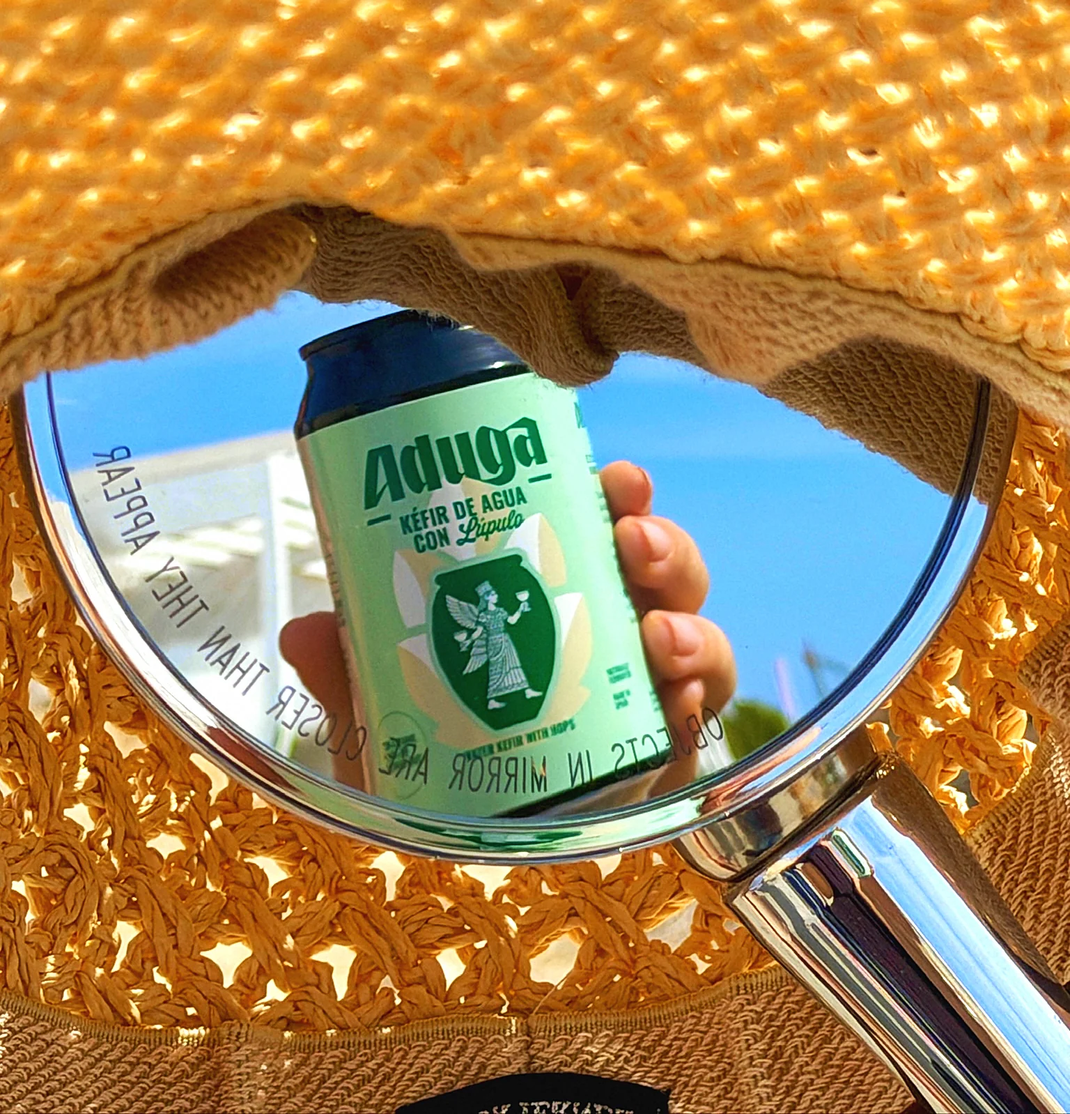
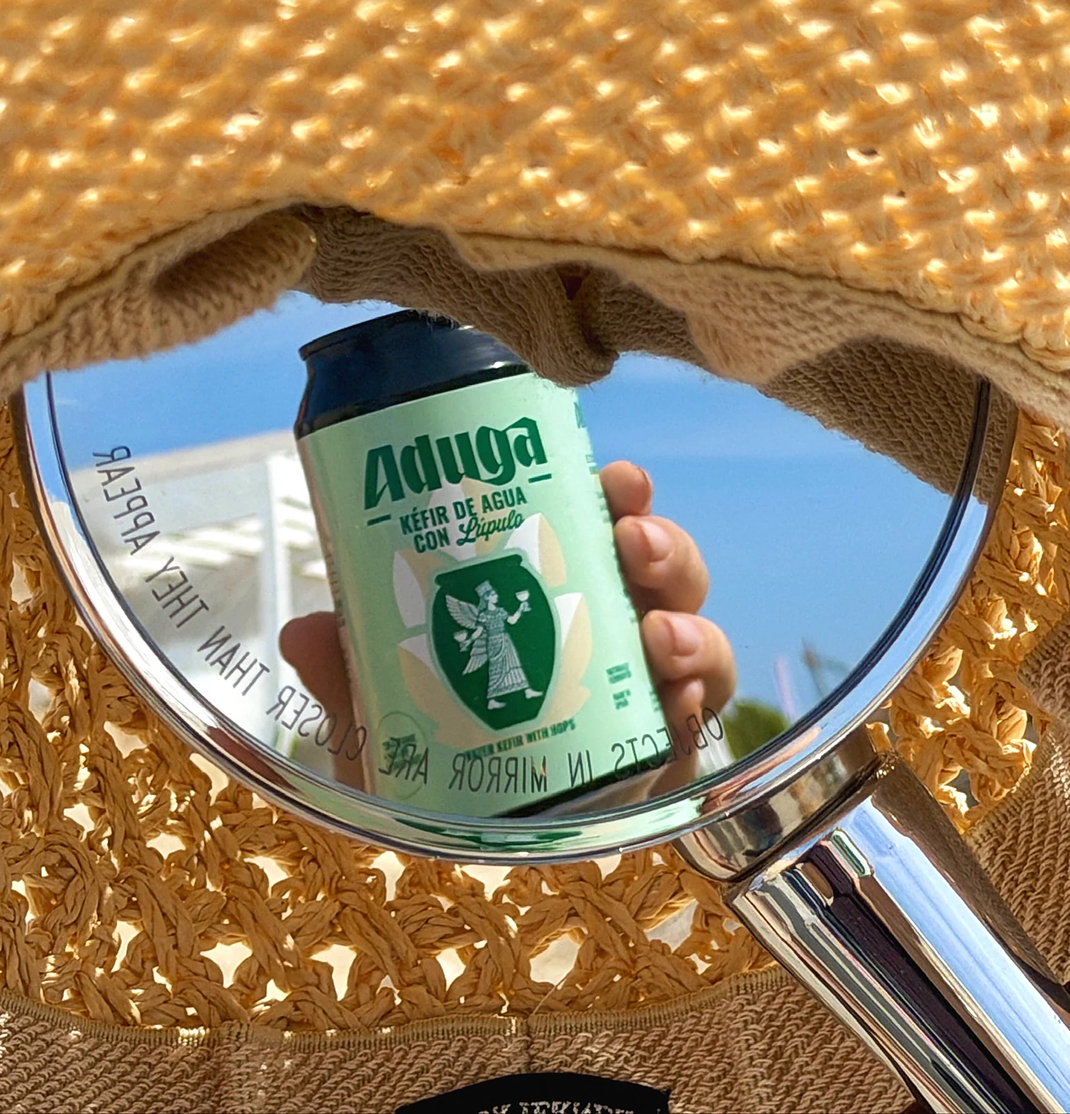
Hero: color más natural en la foto del espejo
Claude-Session: https://claude.ai/code/session_01NCXXDtuLUHPraNBVjAB9qo

diff --git a/index.html b/index.html
@@ -15,13 +15,13 @@
   <meta property="og:description" content="Kéfir de agua artesanal, naturalmente fermentado, con cultivos vivos y un sabor ligero, cítrico y refrescante.">
   <link rel="canonical" href="https://aduga.co/">
   <meta property="og:url" content="https://aduga.co/">
-  <meta property="og:image" content="https://aduga.co/assets/img/og.jpg?v=2">
+  <meta property="og:image" content="https://aduga.co/assets/img/og.jpg?v=3">
   <meta property="og:image:width" content="1200">
   <meta property="og:image:height" content="630">
   <meta name="twitter:card" content="summary_large_image">
 
   <link rel="icon" href="assets/icons/favicon.svg" type="image/svg+xml">
-  <link rel="preload" as="image" href="assets/img/hero-espejo-1536.webp" imagesrcset="assets/img/hero-espejo-900.webp 900w, assets/img/hero-espejo-1536.webp 1536w" imagesizes="(min-width: 900px) 48vw, 100vw">
+  <link rel="preload" as="image" href="assets/img/hero-espejo-1536.webp?v=2" imagesrcset="assets/img/hero-espejo-900.webp?v=2 900w, assets/img/hero-espejo-1536.webp?v=2 1536w" imagesizes="(min-width: 900px) 48vw, 100vw">
   <link rel="preload" as="font" type="font/woff" href="assets/fonts/oswald-bold.woff" crossorigin>
   <link rel="preconnect" href="https://fonts.googleapis.com">
   <link rel="preconnect" href="https://fonts.gstatic.com" crossorigin>
@@ -487,7 +487,7 @@
           </div>
         </div>
         <div class="hero__media">
-          <img src="assets/img/hero-espejo-1536.webp" srcset="assets/img/hero-espejo-900.webp 900w, assets/img/hero-espejo-1536.webp 1536w" sizes="(min-width: 900px) 48vw, 100vw" width="1536" height="1598" alt="Una lata de ADUGA reflejada en un espejo de mano, bajo un bolso de rafia y un cielo azul." fetchpriority="high">
+          <img src="assets/img/hero-espejo-1536.webp?v=2" srcset="assets/img/hero-espejo-900.webp?v=2 900w, assets/img/hero-espejo-1536.webp?v=2 1536w" sizes="(min-width: 900px) 48vw, 100vw" width="1536" height="1598" alt="Una lata de ADUGA reflejada en un espejo de mano, bajo un bolso de rafia y un cielo azul." fetchpriority="high">
           <div class="badge" aria-hidden="true">
             <svg viewBox="0 0 128 128"><defs><path id="circ" d="M64,64 m-50,0 a50,50 0 1,1 100,0 a50,50 0 1,1 -100,0"/></defs><text><textPath href="#circ">Naturalmente fermentado · Cultivos vivos ·</textPath></text></svg>
             <img class="badge__mark" src="assets/icons/ninkasi-vasija.svg" alt="" width="46" height="56">
